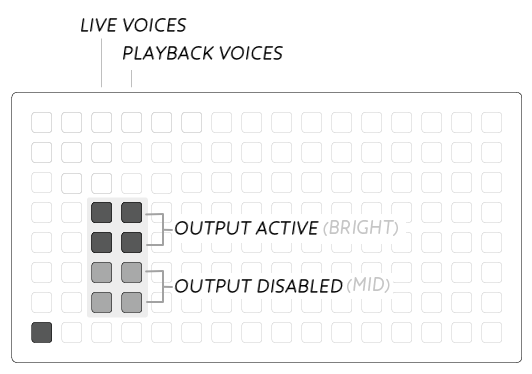
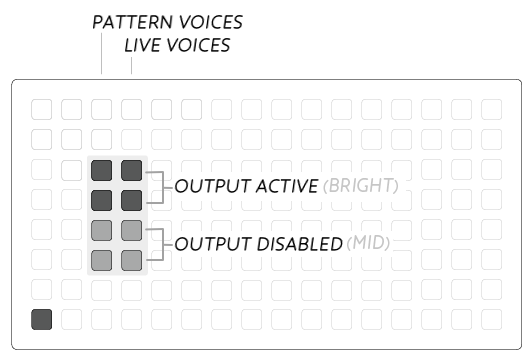
Adding overview image; fixing voice allocation image; updating some language as per scanner_darkly's comments.

diff --git a/docs/modular/ansible/index.md b/docs/modular/ansible/index.md
@@ -436,7 +436,7 @@ A "glyph" can be drawn in the right 8x8 quadrant as a visual cue as to what the 
 
 ### Interface
 
-(pic)
+![](images/ansible_EA_overview.png)
 
 * `Key 1` previous pattern
 * `Key 2` next pattern
